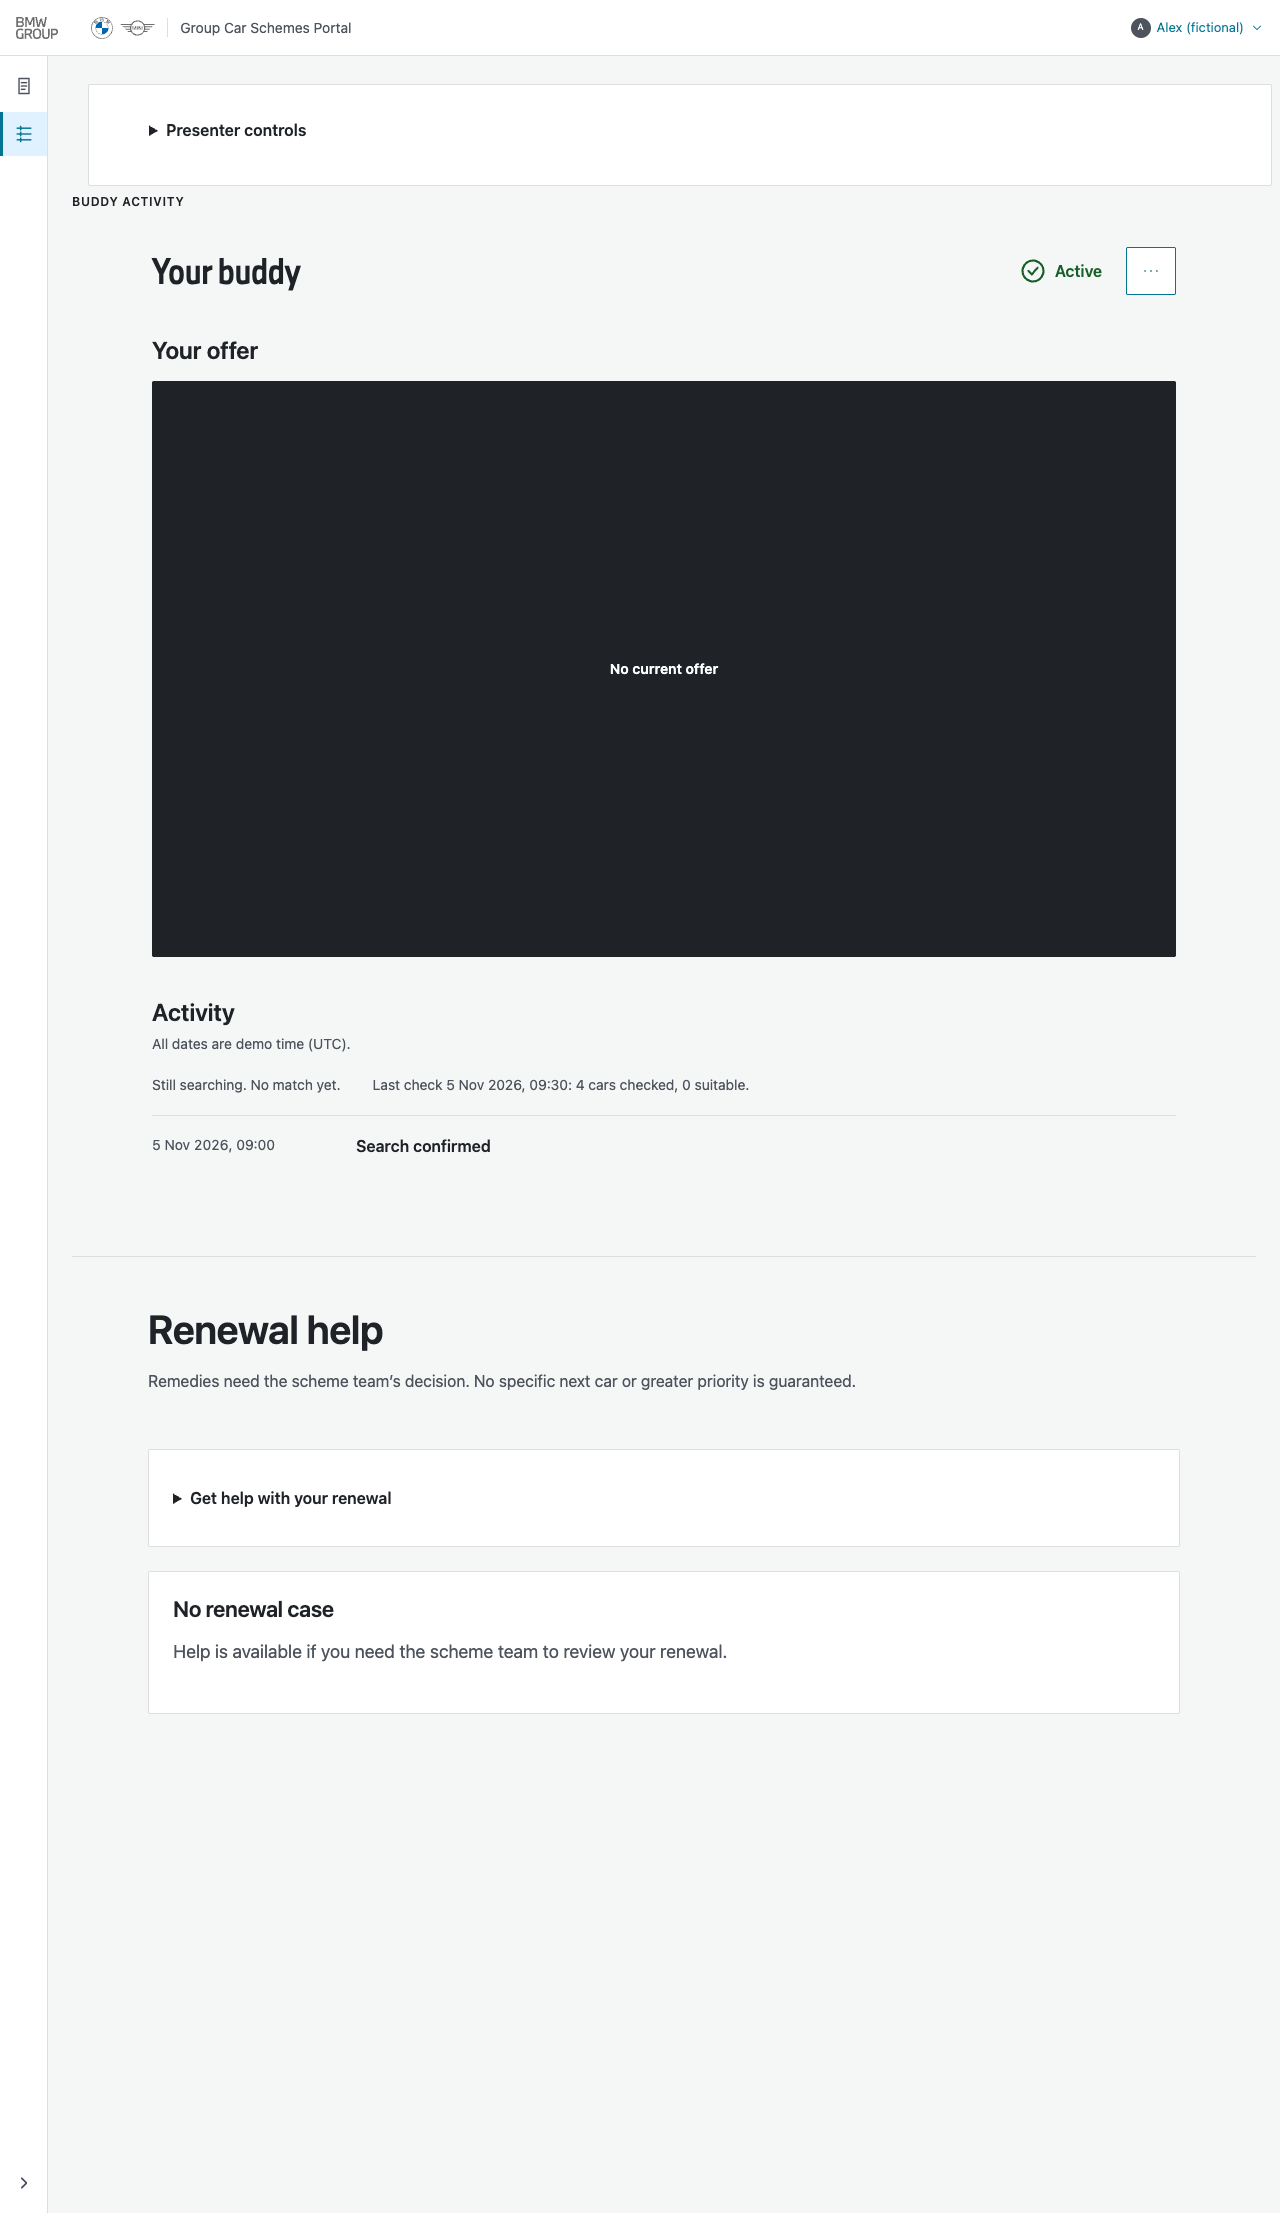
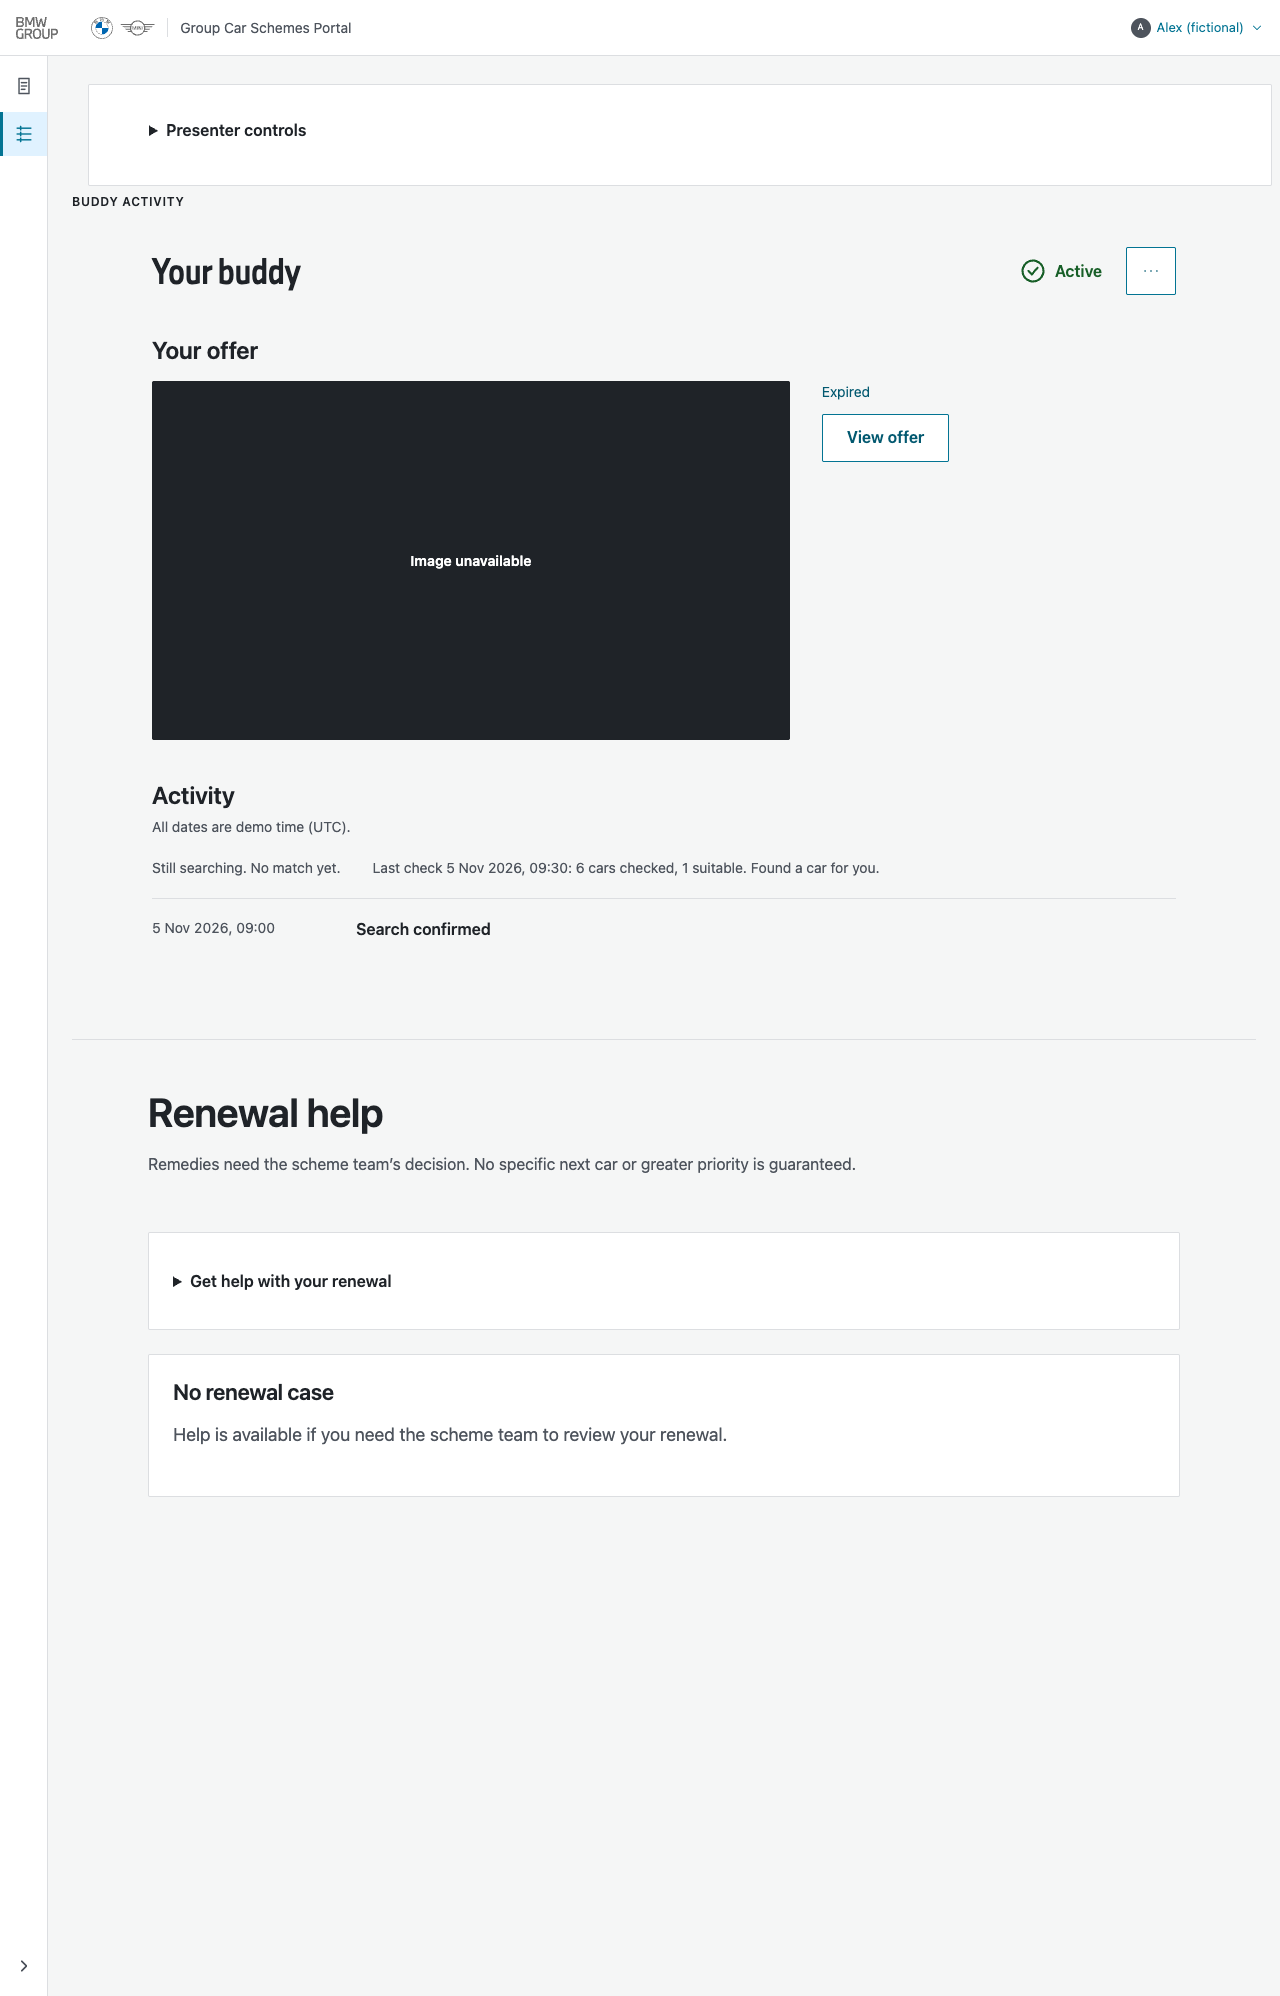
FUCQ-129: replay and walkthrough follow FUCQ-199 (Alex holds his own G1-6 hatch offer)
After merging gcsp-poc 695ed5db via dev/DEV-2026-11-07-006, Alex gets the 1 Series hatch at the same
release and it lapses on the same deadline. The replay now asserts Paula's offer specifically and
that Alex never holds Paula's car; walkthrough rerun at 1280 and 375 passes.

diff --git a/server/test/gcsp-scenario-expiry.test.js b/server/test/gcsp-scenario-expiry.test.js
@@ -43,12 +43,12 @@ async function replay(ctx, label) {
   const as = async (principalId, tag) => { presenter(); route(await client.request('/api/gcsp/session/switch', { principalId, commandId: `${label}-${tag}` })); };
   const before = await records(services, cookie, runId);
 
-  // Start state: Paula holds the one active offer and Alex holds nothing.
-  const [offer] = before.offers; const paula = offer.employeeId;
-  assert.deepEqual([before.offers.length, offer.state, offer.offerId], [1, 'active', startState.offerId]);
+  // Start state: Paula holds one active offer. Alex may hold his own G1-6 car (FUCQ-199), never Paula's.
+  const offer = before.offers.find((row) => row.offerId === startState.offerId); const paula = offer.employeeId;
+  assert.deepEqual([before.offers.filter((row) => row.employeeId === paula).length, offer.state], [1, 'active']);
   assert.equal(offer.expiresAt, startState.expiresAt);
   const alex = before.employees.find((row) => row.principalId === 'demo-alex').employeeId;
-  assert.ok(!before.holds.some((row) => row.employeeId === alex) && !before.offers.some((row) => row.employeeId === alex));
+  assert.ok(!before.offers.some((row) => row.employeeId === alex && row.orderUuid === offer.orderUuid));
   assert.deepEqual(before.stock.find((row) => row.orderUuid === offer.orderUuid).state, 'held');
 
   // The hold length is the policy value; the offer carries it as a deadline read from the offer.
@@ -76,7 +76,9 @@ async function replay(ctx, label) {
   const stages = ticked.tick.handlerOrder.map((h) => h.stage);
   assert.ok(stages.indexOf('buddy-expiry') < stages.indexOf('buddy-allocation'));
   const expiry = good(ticked.tick.outcomes.find((o) => o.handlerId === 'buddy-expiry').outcome);
-  assert.deepEqual(expiry.expired.map((row) => [row.offerId, row.state]), [[offer.offerId, 'expired']]);
+  // Alex's own offer from the same release (FUCQ-199) lapses on the same deadline; Paula's is the one under test.
+  assert.deepEqual(expiry.expired.filter((row) => row.offerId === offer.offerId).map((row) => [row.offerId, row.state]), [[offer.offerId, 'expired']]);
+  assert.ok(expiry.expired.every((row) => row.state === 'expired'));
   const after = await records(services, cookie, runId);
 
   // Recorded as an expiry (not a decline or dislike) and the car is back in the pool, hold released.
@@ -84,7 +86,7 @@ async function replay(ctx, label) {
   assert.equal(state(after.offers, 'offerId', offer.offerId).state, 'expired');
   assert.deepEqual([state(after.holds, 'holdId', offer.holdId).state, state(after.holds, 'holdId', offer.holdId).releaseReason], ['expired', 'buddy-expired']);
   assert.equal(after.claims.find((row) => row.holdId === offer.holdId).state, 'expired');
-  assert.equal(after.receipts.length, 1); assert.equal(after.receipts[0].eventType, 'buddy-expired');
+  assert.ok(after.receipts.length >= 1 && after.receipts.every((row) => row.eventType === 'buddy-expired'));
   const car = state(after.stock, 'orderUuid', offer.orderUuid);
   assert.deepEqual([car.state, car.available, car.held, car.allocated], ['released', true, false, false]);
   assert.equal(after.decisions.length, 0, 'no decline or dislike record');
@@ -118,7 +120,7 @@ async function replay(ctx, label) {
   const final = await records(services, cookie, runId);
   assert.deepEqual([state(final.holds, 'holdId', offer.holdId).state, state(final.offers, 'offerId', offer.offerId).state, final.decisions.length], ['expired', 'expired', 0]);
   presenter();
-  return { runId, link: old, offerCookie: anon.cookie(), expiresAt: offer.expiresAt, now: startState.now, duration, expired: view.state, expiredAt: expiry.expired[0].expiredAt, car: car.facts.display.name };
+  return { runId, link: old, offerCookie: anon.cookie(), expiresAt: offer.expiresAt, now: startState.now, duration, expired: view.state, expiredAt: expiry.expired.find((row) => row.offerId === offer.offerId).expiredAt, car: car.facts.display.name };
 }
 async function presenterTickAgain(client, cookie, commandId) { client.seed(cookie.split('; ')); return presenterTick(client, commandId, { mode: 'step' }); }
 
@@ -139,7 +141,7 @@ test('offer expires on a tick, the old email link reads expired, nothing revives
 });
 
 // FUCQ-129 gap: allocation re-evaluates only on stock releases and brief changes, and Alex (G1-6) is over allowance for every released car.
-test('the expired car is offered to the waiting employee on the same or next tick', { todo: 'allocation has no expiry trigger; Alex is ineligible for every released car' }, async (t) => {
+test('the expired car is offered to the waiting employee on the same or next tick', { todo: 'allocation has no expiry trigger; Alex is eligible only for his own G1-6 car, not Paula\'s' }, async (t) => {
   const ctx = await setup(t);
   const { reset } = await resetIntoScenario(ctx.client, SCENARIO, 'realloc-reset');
   const cookie = ctx.client.cookie();
@@ -147,5 +149,6 @@ test('the expired car is offered to the waiting employee on the same or next tic
   await presenterTick(ctx.client, 'realloc-next', { mode: 'step' });
   const after = await records(ctx.services, cookie, reset.runId);
   const alex = after.employees.find((row) => row.principalId === 'demo-alex').employeeId;
-  assert.ok(after.offers.some((row) => row.employeeId === alex && row.state === 'active'), 'Alex holds an active offer for the returned car');
+  const car = after.offers.find((row) => row.offerId === reset.startState.offerId).orderUuid;
+  assert.ok(after.offers.some((row) => row.employeeId === alex && row.orderUuid === car && row.state === 'active'), 'Alex holds an active offer for the returned car');
 });

diff --git a/docs/gcsp/manual-acceptance-scenarios.md b/docs/gcsp/manual-acceptance-scenarios.md
@@ -229,14 +229,14 @@ Observations from a hand trial go in a new row below, in the same format.
 - **Click-through:** switch to Paula, open **Buddy activity** and read the time her offer is available until. Open `/gcsp-outbox.html`, choose her captured email and keep its offer link. As presenter, type that time (UTC ISO, for example `2026-11-05T11:30:00.000Z`) into **Named time or UTC target** and press **Tick to target**; there is no named cue for it. Read the `buddy-expiry` step in the tick result. Switch to Paula and open the captured-email link: the page reads **Offer expired**. Reload it, and press **Tick** once more, then reload again. Switch to Alex and read his **Buddy activity**.
 - **Expected visible/state result:** the clock moves to the offer's own deadline and the `buddy-expiry` handler marks the offer, its claim and its hold *expired* (release reason `buddy-expired`) before `buddy-allocation` runs; the car goes back to *released* stock. The old link opens from the backend as *expired*, with no accept or decline, and no reload, later tick or late accept from the old page revives it. The expiry is its own record: no decline or dislike decision exists, and Paula's brief, renewal and entitlement slot are unchanged, so she gets no priority. Reset again: the new run has a new offer and link; the first run's link and cookie are refused as stale.
 - **Provisional assumptions:** `hold.buddy.durationSeconds` (assumed 7200 s, a proposed new capability) and `hold.deadline.inclusive` (an offer expires at its deadline) come from PolicyService, and expiry runs on a tick, not a timer. The `offer.declinedCar.exclusion` assumption keeps expiry out of the dislike history.
-- **Known gap (not patched in the fixture):** the expired car is not offered on to another employee. Allocation re-evaluates only on stock releases and brief changes, so expiry does not trigger it, and Alex (grade G1-6, 1,000 points a month allowance) is over allowance for every demo car, so no second holder exists on this base. The acceptance step "the waiting employee is offered it on the same or next tick" is unmet and is recorded as a `todo` test in the replay.
+- **Known gap (not patched in the fixture):** the expired car is not offered on to another employee. Allocation re-evaluates only on stock releases and brief changes, so expiry does not trigger it, and Alex (grade G1-6) is eligible only for the 1 Series hatch FUCQ-199 added, not Paula's car. Since FUCQ-199 Alex holds his own hatch offer from the same release, and it lapses at the same deadline; nobody is waiting for Paula's car on this base. The acceptance step "the waiting employee is offered it on the same or next tick" is unmet and is recorded as a `todo` test in the replay.
 - **Automated replay:** `server/test/gcsp-scenario-expiry.test.js` drives the entry through the actual presenter and employee HTTP routes after reset, twice across two resets: Paula's active offer and captured email; the tick to the offer's own `expiresAt` (read from the offer, and equal to the start time plus the policy duration); the expiry handler and the released car; the old link, re-reads, further ticks and a late accept all leaving it expired; no decision record and unchanged brief, renewal and slot; and the first run's link refused as stale after the second reset.
 
 | Date UTC | Variant/fixture | Run ID | Build | Result | Feedback / next revision |
 |---|---|---|---|---|---|
 | 2026-11-05 | expiry / v1 input manifest | No new run (refused) | `96bc997` | Automated pre-reset missing expiry/offer capabilities; no expiry walkthrough claimed. | FUCQ-129 supplies actual offer-deadline and stale-link replay. |
 | 2026-11-08 | expiry / v1; replay only (memory, demo stock) | two generated runs, each from its own reset | FUCQ-129 slice 1 | Automated replay passes twice across two resets (expiry on tick, old link expired and not revived, no decline record, no priority change, stale after reset). Reallocation to a waiting employee not observed (known gap above). | Browser walkthrough at 1280 and 375 follows in FUCQ-129 slice 2. |
-| 2026-11-08 | expiry / v1; hosted entry, memory, demo stock; headless Chrome, keyboard operation, 1280 and 375 | `demo-7174e5d3…` then `demo-7b62994a…` (1280), `demo-6fdd7203…` then `demo-54ae6cea…` (375), each from its own reset | `984d02c7` + walkthrough | Reset read back Offer expires at 09:30 UTC; Paula's Buddy activity *Respond by 5 Nov 2026, 11:30*; her captured email and offer link found in the outbox; Tick to target 2026-11-05T11:30:00.000Z ran *Buddy expiry: Done* before *Buddy allocation*; the email link reads **Offer expired** (*This offer is no longer available to accept.*) with no accept or decline control, and stays expired after a reload, one more Tick and a reload. After a second reset the first run's link reads *Offer from an earlier demo run*. Alex's Buddy activity reads *No current offer. Still searching. No match yet. 4 cars checked, 0 suitable.*: the expired car is not offered on to him (known gap, allocation has no expiry trigger). 8/8 steps and 36/36 keyboard checks at each width; no page errors, no horizontal overflow. Evidence: `docs/gcsp/evidence/fucq-75/fucq-129/`. | Low: the expired page still shows *Eligible* and *Why it suits you* for the car. Low: the stale-run page says *Open the original email link* when that is the link just opened. Reallocation to a waiting employee still unmet. |
+| 2026-11-08 | expiry / v1; hosted entry, memory, demo stock; headless Chrome, keyboard operation, 1280 and 375 | `demo-8362963d…` then `demo-89762b1b…` (1280), `demo-3d8514b2…` then `demo-7b4073e4…` (375), each from its own reset | `984d02c7` + walkthrough, rerun on the gcsp-poc `695ed5db` merge (`d83a8670`) | Reset read back Offer expires at 09:30 UTC; Paula's Buddy activity *Respond by 5 Nov 2026, 11:30*; her captured email and offer link found in the outbox; Tick to target 2026-11-05T11:30:00.000Z ran *Buddy expiry: Done* before *Buddy allocation*; the email link reads **Offer expired** (*This offer is no longer available to accept.*) with no accept or decline control, and stays expired after a reload, one more Tick and a reload. After a second reset the first run's link reads *Offer from an earlier demo run*. Alex's Buddy activity shows his own G1-6 hatch offer from the same release (FUCQ-199) as *Expired*; Paula's car is not offered on to him (known gap, allocation has no expiry trigger). 8/8 steps and 36/36 keyboard checks at each width; no page errors, no horizontal overflow. Evidence: `docs/gcsp/evidence/fucq-75/fucq-129/`. | Low: the expired page still shows *Eligible* and *Why it suits you* for the car. Low: the stale-run page says *Open the original email link* when that is the link just opened. Reallocation to a waiting employee still unmet. |
 
 ### Data unavailable · `data-unavailable` · FUCQ-130
 
